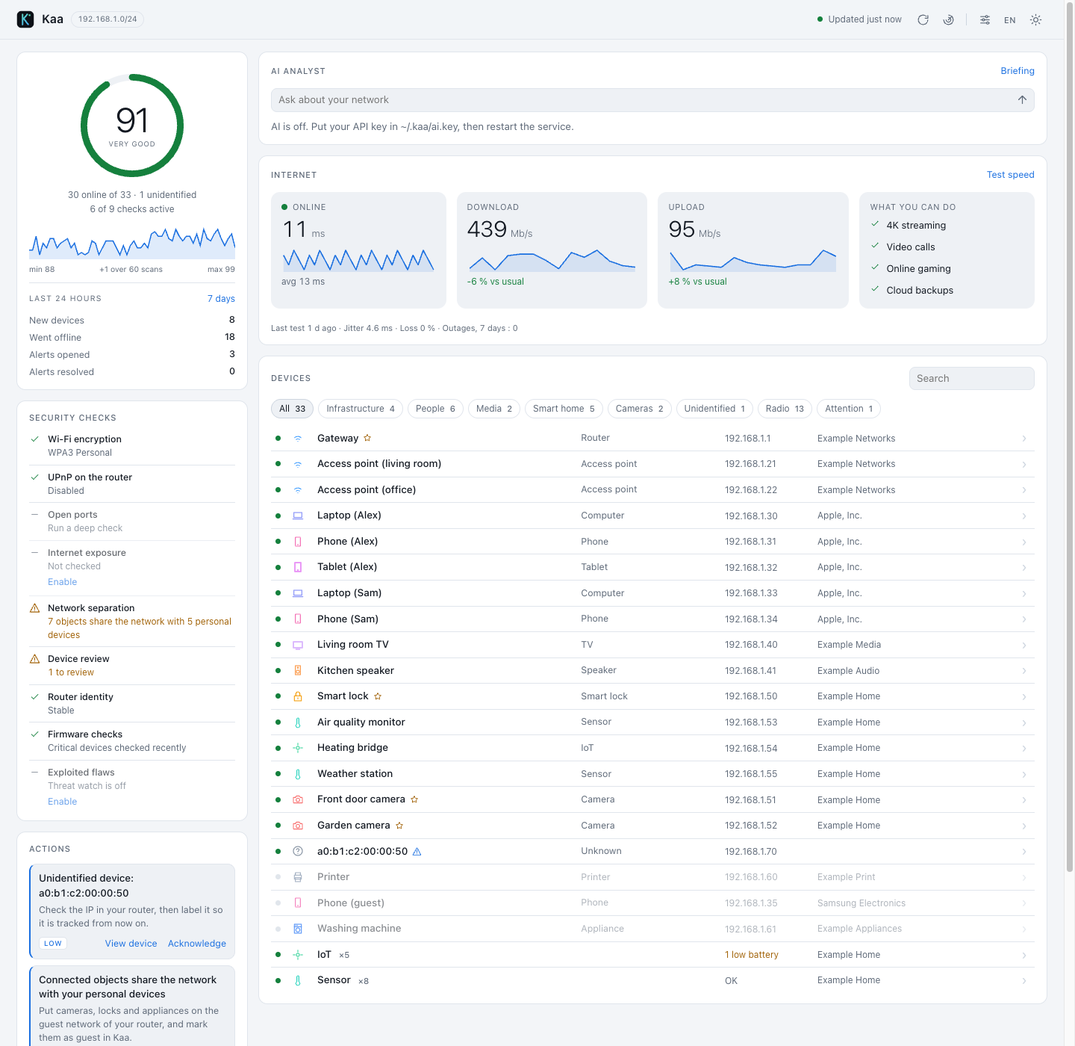
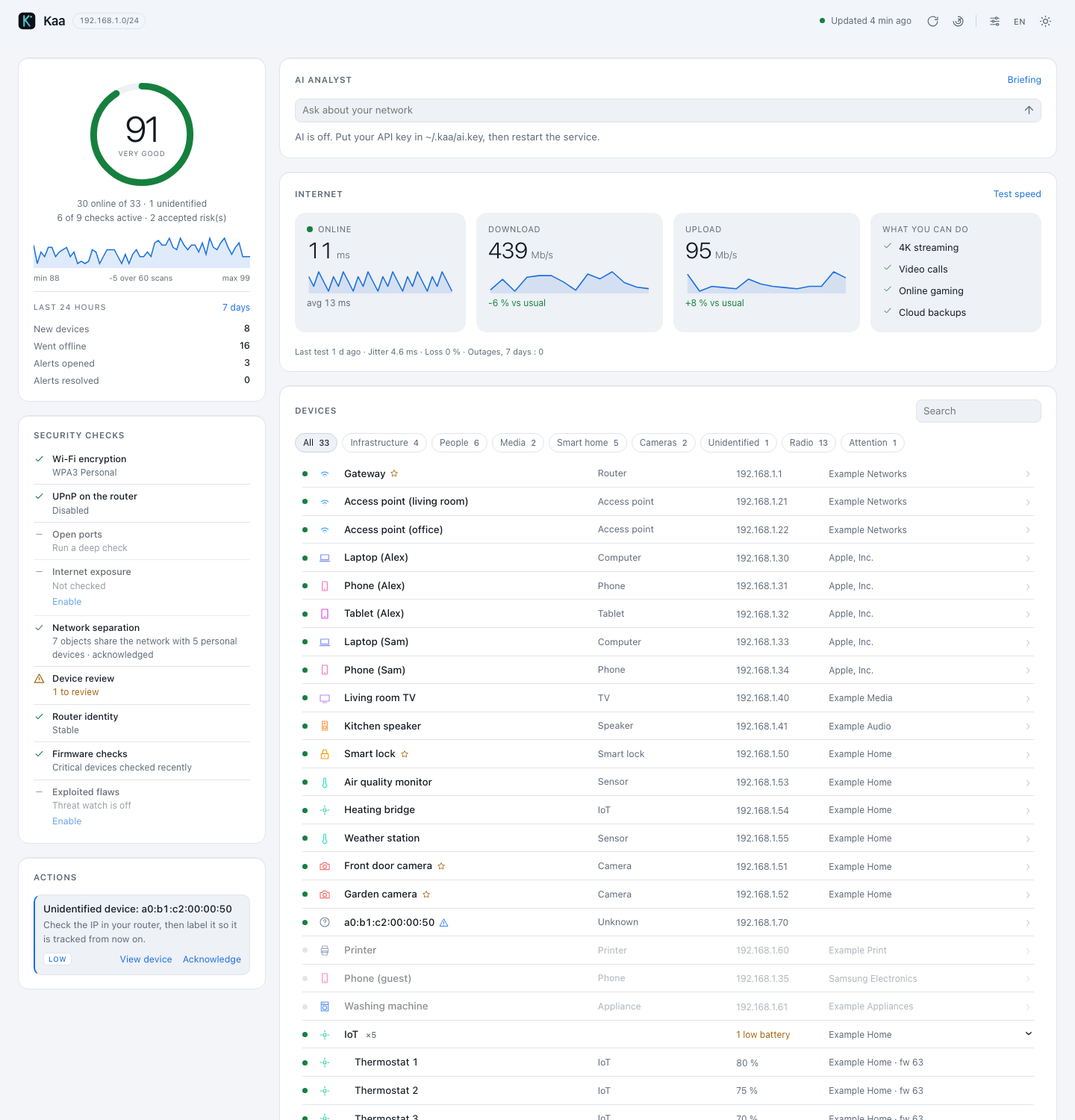
Redesign the interface: spring drawer, press feedback, materials, type
- Drawer: spring (damping ratio + response), draggable with pointer capture,
  momentum projection and velocity handoff, rubber-banding, interruptible,
  enters and leaves on the same side. No library, no external request.
- Press feedback on pointer down for buttons, filters, rows and alerts.
- Translucent drawer and top bar with a light edge; the page steps back and
  dims while the drawer is open; the bar divider appears on scroll.
- Typography: tighter tracking on large figures and titles.
- Cards and device rows: more space, softer radius, hairline separators.
- Radio device groups are expanded by default so device names stay visible.
- Accessibility: reduced motion (fade), reduced transparency, increased
  contrast; closed drawer is not focusable, background is inert when open.
- ?still freezes animations for stable screenshots.
- New screenshots (synthetic data), docs/DESIGN.md, README and CONTRIBUTING notes.

Claude-Session: https://claude.ai/code/session_01UT5uZosPDpBf2XQp8RB8y7

diff --git a/src/kaa/web/app.css b/src/kaa/web/app.css
@@ -25,24 +25,28 @@
   --text: #e6edf3; --muted: #7d8a9b; --accent: #3ee6b0; --accent-2: #4aa3ff; --ok: #34d399; --warn: #fbbf24;
   --high: #fb923c; --crit: #f87171; --on-accent: #03140d; --grid: rgba(120,160,200,.045); --glow: rgba(62,230,176,.10);
   --shadow: 0 0 0 1px rgba(255,255,255,.02) inset, 0 10px 30px rgba(0,0,0,.45); }
-:root { --radius: 12px; --mono: var(--sans);
+:root { --radius: 14px; --mono: var(--sans); --spring: cubic-bezier(.2,.8,.2,1);
+  --edge: color-mix(in srgb, var(--text) 9%, transparent);
   --sans: -apple-system, BlinkMacSystemFont, "SF Pro Text", "Segoe UI", system-ui, "Helvetica Neue", sans-serif; }
 * { box-sizing: border-box; }
-html, body { margin: 0; background: var(--bg); color: var(--text); font: 13.5px/1.45 var(--sans); -webkit-font-smoothing: antialiased; }
+html, body { margin: 0; background: var(--bg); color: var(--text); font: 13.5px/1.45 var(--sans); -webkit-font-smoothing: antialiased;
+  font-optical-sizing: auto; -webkit-tap-highlight-color: transparent; }
+button, a, input, select { touch-action: manipulation; }
 .mono { font-family: var(--mono); }
-h2 { margin: 0; font-size: 11px; letter-spacing: .08em; text-transform: uppercase; color: var(--muted); font-weight: 500;
+h2 { margin: 0; font-size: 11.5px; letter-spacing: .07em; text-transform: uppercase; color: var(--muted); font-weight: 600;
   display: flex; align-items: center; gap: 8px; }
 svg.ic { width: 16px; height: 16px; fill: none; stroke: currentColor; stroke-width: 1.7; stroke-linecap: round; stroke-linejoin: round; flex: none; }
 [data-tip] { position: relative; }
-[data-tip]:hover::after { content: attr(data-tip); position: absolute; z-index: 20; top: calc(100% + 8px); left: 50%; transform: translateX(-50%);
+[data-tip]:hover::after { animation: tipin .14s ease-out; content: attr(data-tip); position: absolute; z-index: 20; top: calc(100% + 8px); left: 50%; transform: translateX(-50%);
   white-space: nowrap; background: var(--panel-2); color: var(--text); border: 1px solid var(--line-2); border-radius: 8px;
   padding: 5px 9px; font: 11.5px var(--sans); box-shadow: var(--shadow); pointer-events: none; }
 .bar-right [data-tip]:last-of-type:hover::after, .bar-right [data-tip]:hover::after { right: 0; left: auto; transform: none; }
 
 .bar { position: sticky; top: 0; z-index: 6; display: flex; justify-content: space-between; align-items: center;
-  padding: 10px 22px; background: color-mix(in srgb, var(--bg) 80%, transparent); backdrop-filter: saturate(160%) blur(16px);
-  border-bottom: 1px solid var(--line); }
-.brand { display: flex; align-items: center; gap: 10px; } .brand .name { font-weight: 600; font-size: 16px; letter-spacing: .02em; }
+  padding: 12px 24px; background: color-mix(in srgb, var(--bg) 72%, transparent); backdrop-filter: saturate(180%) blur(20px);
+  border-bottom: 1px solid transparent; transition: border-color .2s; }
+.bar.scrolled { border-bottom-color: var(--line); }
+.brand { display: flex; align-items: center; gap: 10px; } .brand .name { font-weight: 600; font-size: 17px; letter-spacing: -.012em; }
 .chip { font-size: 10.5px; color: var(--muted); border: 1px solid var(--line); padding: 2px 8px; border-radius: 99px; }
 .bar-right { display: flex; align-items: center; gap: 10px; }
 .status { display: flex; align-items: center; gap: 8px; color: var(--muted); font-size: 12px; margin-right: 4px; }
@@ -51,19 +55,19 @@ svg.ic { width: 16px; height: 16px; fill: none; stroke: currentColor; stroke-wid
 @keyframes pulse { 0% { box-shadow: 0 0 0 0 color-mix(in srgb, var(--accent) 60%, transparent);} 100% { box-shadow: 0 0 0 9px transparent;} }
 
 
-.grid { position: relative; z-index: 1; display: grid; grid-template-columns: 310px 1fr; gap: 14px; padding: 16px 22px 40px; max-width: 1500px; margin: 0 auto; }
+.grid { position: relative; z-index: 1; display: grid; grid-template-columns: 332px 1fr; gap: 18px; padding: 20px 24px 48px; max-width: 1500px; margin: 0 auto; }
 @media (max-width: 980px) { .grid { grid-template-columns: 1fr; } }
-.col-left, .col-right { display: flex; flex-direction: column; gap: 14px; min-width: 0; }
-.card { background: var(--panel); border: 1px solid var(--line); border-radius: var(--radius); padding: 14px 16px; }
-.card-head { display: flex; justify-content: space-between; align-items: center; gap: 12px; margin-bottom: 12px; flex-wrap: wrap; }
+.col-left, .col-right { display: flex; flex-direction: column; gap: 18px; min-width: 0; }
+.card { background: var(--panel); border: 1px solid var(--line); border-radius: var(--radius); padding: 18px 20px; box-shadow: inset 0 1px 0 var(--edge); }
+.card-head { display: flex; justify-content: space-between; align-items: center; gap: 12px; margin-bottom: 14px; flex-wrap: wrap; }
 
 .score { text-align: center; }
 .ring-wrap { position: relative; width: 156px; height: 156px; margin: 6px auto; }
 .ring { width: 100%; height: 100%; } .ring-bg { fill: none; stroke: var(--panel-2); stroke-width: 8; }
 .ring-fg { fill: none; stroke: var(--accent); stroke-width: 8; stroke-linecap: round; stroke-dasharray: 364.4; stroke-dashoffset: 364.4;
-  transition: stroke-dashoffset 1s cubic-bezier(.2,.8,.2,1), stroke .4s; }
+  transition: stroke-dashoffset .9s var(--spring), stroke .4s; }
 .ring-text { position: absolute; inset: 0; display: grid; place-content: center; }
-.num { font: 300 46px/1 var(--sans); letter-spacing: -.03em; } .grade { color: var(--muted); font-size: 11px; margin-top: 4px; letter-spacing: .1em; }
+.num { font: 300 48px/1 var(--sans); letter-spacing: -.045em; } .grade { color: var(--muted); font-size: 11px; margin-top: 4px; letter-spacing: .1em; }
 .trend { margin-top: 14px; } .spark { width: 100%; height: 44px; }
 .spark path.l { fill: none; stroke: var(--accent-2); stroke-width: 1.5; vector-effect: non-scaling-stroke; }
 .spark path.a { fill: color-mix(in srgb, var(--accent-2) 14%, transparent); stroke: none; }
@@ -94,10 +98,15 @@ svg.ic { width: 16px; height: 16px; fill: none; stroke: currentColor; stroke-wid
 .search:focus, .select:focus { border-color: var(--accent-2); }
 .pill { display: inline-flex; align-items: center; gap: 6px; font-size: 12px; } .pill svg { width: 14px; height: 14px; }
 
-.scrim { position: fixed; inset: 0; background: rgba(0,0,0,.5); opacity: 0; pointer-events: none; transition: opacity .2s; z-index: 8; } .scrim.on { opacity: 1; pointer-events: auto; }
-.drawer { position: fixed; top: 0; right: 0; bottom: 0; width: min(440px, 100vw); background: var(--panel); border-left: 1px solid var(--line);
-  transform: translateX(102%); transition: transform .26s cubic-bezier(.2,.8,.2,1); z-index: 9; padding: 20px; overflow-y: auto; }
-.drawer.on { transform: none; } .drawer h3 { margin: 0 0 2px; font-size: 19px; } .drawer .sub { color: var(--muted); font: 12px var(--mono); }
+.scrim { position: fixed; inset: 0; background: rgba(0,0,0,.5); opacity: 0; pointer-events: none; z-index: 8; } .scrim.on { pointer-events: auto; }
+/* The drawer is moved by JS (spring, drag, momentum). It extends 40px past the right edge so a bounce never shows a gap. */
+.drawer { position: fixed; top: 0; right: -40px; bottom: 0; width: calc(min(440px, 100vw) + 40px); z-index: 9; padding: 22px 62px 22px 22px; overflow-y: auto;
+  background: color-mix(in srgb, var(--panel) 80%, transparent); backdrop-filter: saturate(180%) blur(28px); -webkit-backdrop-filter: saturate(180%) blur(28px);
+  border-left: 1px solid var(--line); box-shadow: inset 1px 0 0 var(--edge), -30px 0 70px -24px rgba(0,0,0,.45);
+  transform: translate3d(100%, 0, 0); visibility: hidden; touch-action: pan-y; overscroll-behavior: contain; }
+.drawer.vis { visibility: visible; } .drawer.dragging { user-select: none; cursor: grabbing; }
+.drawer::before { content: ""; position: fixed; top: 50%; left: 7px; width: 4px; height: 36px; margin-top: -18px; border-radius: 4px; background: var(--line-2); opacity: .7; pointer-events: none; }
+.drawer h3 { margin: 0 0 2px; font-size: 20px; line-height: 1.15; letter-spacing: -.022em; font-weight: 600; } .drawer .sub { color: var(--muted); font: 12px var(--mono); }
 .drawer .block { margin-top: 18px; } .drawer .block > h2 { margin-bottom: 8px; }
 .kv { display: grid; grid-template-columns: 100px 1fr; gap: 6px 10px; font-size: 13px; } .kv dt { color: var(--muted); } .kv dd { margin: 0; font: 12px var(--mono); word-break: break-all; }
 .evidence { background: var(--panel-2); border: 1px solid var(--line); border-radius: 10px; padding: 9px 11px; margin-bottom: 8px; font-size: 12.5px; }
@@ -141,8 +150,11 @@ svg.ic { width: 16px; height: 16px; fill: none; stroke: currentColor; stroke-wid
 .tag.on { color: var(--text); background: var(--panel-2); border-color: var(--line-2); }
 .dlist { display: flex; flex-direction: column; }
 .dev { display: grid; grid-template-columns: 10px 22px minmax(0, 1.7fr) minmax(0, .9fr) 112px minmax(0, 1.3fr); gap: 12px; align-items: center; width: 100%;
-  background: transparent; border: 0; border-bottom: 1px solid var(--line); padding: 7px 6px; color: inherit; font: inherit; text-align: left; cursor: pointer; }
-.dev:last-child { border-bottom: 0; } .dev:hover { background: var(--panel-2); } .dev.static { cursor: default; } .dev.static:hover { background: transparent; }
+  background-color: transparent; border: 0; border-radius: 10px; padding: 9px 10px; color: inherit; font: inherit; text-align: left; cursor: pointer;
+  background-image: linear-gradient(var(--line), var(--line)); background-size: calc(100% - 20px) 1px; background-position: center bottom; background-repeat: no-repeat;
+  transition: background-color .12s; }
+.dev:last-child { background-image: none; } .dev:hover { background-color: var(--panel-2); } .dev:active { background-color: var(--line); transition-duration: 0s; }
+.dev.static { cursor: default; } .dev.static:hover, .dev.static:active { background-color: transparent; }
 .dev.off > :not(.dg):not(.live) { opacity: .5; } .dev.off .dg { opacity: .85; } .dev.off .live { opacity: .6; } .dev.newdev .dn { color: var(--warn); }
 .dg { display: inline-flex; } .dn { font-weight: 500; display: flex; align-items: center; gap: 6px; min-width: 0; overflow: hidden; text-overflow: ellipsis; white-space: nowrap; }
 .dt { color: var(--muted); font-size: 12.5px; } .da { font: 12px var(--mono); color: var(--muted); }
@@ -155,7 +167,7 @@ svg.ic { width: 16px; height: 16px; fill: none; stroke: currentColor; stroke-wid
 @media (max-width: 900px) { .dev { grid-template-columns: 10px 22px minmax(0, 1fr) 100px 12px; } }
 
 .ib { appearance: none; border: 0; background: transparent; color: var(--muted); width: 32px; height: 32px; display: inline-grid; place-items: center;
-  border-radius: 8px; cursor: pointer; font: 500 11px var(--mono); letter-spacing: .04em; transition: color .12s, background .12s; }
+  border-radius: 8px; cursor: pointer; font: 500 11px var(--mono); letter-spacing: .04em; transition: color .12s, background .12s, transform .35s var(--spring); }
 .ib:hover { color: var(--text); background: var(--panel-2); } .ib:disabled { opacity: .4; cursor: default; }
 .ib svg { width: 17px; height: 17px; } .ib.busy { color: var(--accent); } .ib.busy svg { animation: spin 1s linear infinite; }
 @keyframes spin { to { transform: rotate(360deg); } }
@@ -182,7 +194,7 @@ svg.ic { width: 16px; height: 16px; fill: none; stroke: currentColor; stroke-wid
 .hy-d { font-size: 12px; color: var(--muted); } .hy-row.warn .hy-d { color: var(--warn); } .hy-row.na { opacity: .65; }
 .hy-row.ack .hy-d { color: var(--muted); }
 
-body { font-variant-numeric: tabular-nums; letter-spacing: -.003em; }
+body { font-variant-numeric: tabular-nums; }
 .dn { font-weight: 500; }
 
 .foot { text-align: center; color: var(--muted); font-size: 11.5px; padding: 4px 22px 28px; }
@@ -190,9 +202,9 @@ body { font-variant-numeric: tabular-nums; letter-spacing: -.003em; }
 .hy-b .threats { margin-top: 8px; }
 .ni { display: grid; grid-template-columns: 1.1fr 1.2fr 1.2fr 1.1fr; gap: 14px; }
 @media (max-width: 1100px) { .ni { grid-template-columns: 1fr 1fr; } }
-.ni-col { background: var(--panel-2); border-radius: 12px; padding: 12px 14px; display: flex; flex-direction: column; gap: 4px; min-width: 0; }
+.ni-col { background: var(--panel-2); border-radius: 14px; padding: 14px 16px; display: flex; flex-direction: column; gap: 4px; min-width: 0; }
 .ni-k { color: var(--muted); font-size: 11px; letter-spacing: .06em; text-transform: uppercase; display: flex; align-items: center; gap: 7px; }
-.ni-v { font-size: 30px; font-weight: 300; letter-spacing: -.02em; line-height: 1.1; } .ni-v small { font-size: 13px; color: var(--muted); margin-left: 5px; letter-spacing: 0; }
+.ni-v { font-size: 30px; font-weight: 300; letter-spacing: -.03em; line-height: 1.05; } .ni-v small { font-size: 13px; color: var(--muted); margin-left: 5px; letter-spacing: 0; }
 .ni-s { color: var(--muted); font-size: 12px; } .ni-f { margin-top: 10px; }
 .ni-dot { width: 8px; height: 8px; border-radius: 50%; background: var(--muted); display: inline-block; }
 .ni-dot.on { background: var(--ok); box-shadow: 0 0 0 0 var(--ok); animation: pulse 2s infinite; } .ni-dot.off { background: var(--crit); }
@@ -212,4 +224,31 @@ body { font-variant-numeric: tabular-nums; letter-spacing: -.003em; }
 .grade { max-width: 92px; text-align: center; font-size: 9.5px !important; letter-spacing: .07em !important; line-height: 1.25; margin-top: 4px; }
 
 :focus-visible { outline: 2px solid var(--accent); outline-offset: 2px; border-radius: 6px; }
-@media (prefers-reduced-motion: reduce) { *, *::before, *::after { transition: none !important; animation: none !important; } }
+@keyframes tipin { from { opacity: 0; } }
+
+/* Press feedback: starts on pointer down, never waits for release. */
+.ib, .tag, .link, .seg button, .action, .card .search { transition-property: transform, color, background-color, border-color, opacity; transition-duration: .35s, .12s, .12s, .12s, .12s; transition-timing-function: var(--spring), ease, ease, ease, ease; }
+.ib:active, .tag:active, .seg button:active { transform: scale(.94); transition-duration: .1s; }
+.link:active { opacity: .6; transition-duration: 0s; }
+.action:active { transform: scale(.985); transition-duration: .1s; }
+.action[style*="cursor:default"]:active { transform: none; }
+
+/* Drawer in the background: the page steps back while a modal drawer is open. */
+.dr-active .bar, .dr-active .grid, .dr-active .foot { transform: scale(calc(1 - .014 * var(--p, 0))); transform-origin: 35% 50%; }
+
+@supports (transition-timing-function: linear(0, 1)) { :root { --spring: linear(0, 0.097, 0.282, 0.466, 0.619, 0.736, 0.821, 0.881, 0.921, 0.949, 0.967, 0.979, 0.986, 0.991, 0.995, 0.997, 0.998, 0.999, 0.999, 0.999, 1, 1, 1, 1, 1); } }
+
+@media (prefers-reduced-motion: reduce) {
+  *, *::before, *::after { animation: none !important; transition-property: opacity, color, background-color, border-color !important; transition-duration: .2s !important; transition-timing-function: ease !important; }
+  .dr-active .bar, .dr-active .grid, .dr-active .foot { transform: none; }
+  .drawer { transform: none; opacity: 0; transition: opacity .2s, visibility 0s .2s !important; } .drawer::before { display: none; }
+  .drawer.on { opacity: 1; visibility: visible; transition: opacity .2s !important; }
+  .scrim { transition: opacity .2s !important; }
+}
+@media (prefers-reduced-transparency: reduce) {
+  .bar, .drawer { background: var(--panel); backdrop-filter: none; -webkit-backdrop-filter: none; }
+}
+@media (prefers-contrast: more) {
+  :root, [data-theme] { --line: var(--line-2); --muted: color-mix(in srgb, var(--text) 78%, var(--bg)); }
+  .card, .drawer, .bar { border-color: var(--line-2); } .bar, .drawer { background: var(--panel); backdrop-filter: none; -webkit-backdrop-filter: none; }
+}

diff --git a/src/kaa/web/app.js b/src/kaa/web/app.js
@@ -422,7 +422,7 @@ function renderMap() {
     for (const [k, items] of [...byKind].sort((x, y) => x[0].localeCompare(y[0]))) {
       items.sort((x, y) => (x.name || "").localeCompare(y.name || ""));
       if (items.length < 3) { nodes.push(...items.map((r) => radioRow(r))); continue; }
-      const open = q ? true : grpOpen.has(k) ? grpOpen.get(k) : chip === "radio";
+      const open = q ? true : grpOpen.has(k) ? grpOpen.get(k) : true;  // names visible by default; the group row still folds them
       nodes.push(groupRow(k, items, open));
       if (open) nodes.push(...items.map((r) => radioRow(r, true)));
     }
@@ -430,13 +430,100 @@ function renderMap() {
   box.replaceChildren(...(nodes.length ? nodes : [el("div", { class: "empty" }, t("no_match_dev"))]));
 }
 
+/* ---------- drawer physics: spring, drag, momentum (no library, no external request) ---------- */
+const reduceMotion = () => matchMedia("(prefers-reduced-motion: reduce)").matches;
+/* Spring defined like Apple's: damping ratio + response (seconds). Integrates from the live value and velocity, so it can be interrupted at any frame. */
+function spring(from, to, v0, { response = 0.32, damping = 1 }, onFrame, onDone) {
+  const w = (2 * Math.PI) / response, k = w * w, c = 2 * damping * w;
+  let x = from, v = v0, last = performance.now(), id = 0;
+  const step = (now) => {
+    let dt = Math.min(0.064, (now - last) / 1000); last = now;
+    while (dt > 0) { const h = Math.min(dt, 1 / 240); v += (-k * (x - to) - c * v) * h; x += v * h; dt -= h; }
+    if (Math.abs(x - to) < 0.3 && Math.abs(v) < 2) { onFrame(to, 0); if (onDone) onDone(); return; }
+    onFrame(x, v); id = requestAnimationFrame(step);
+  };
+  id = requestAnimationFrame(step);
+  return { cancel: () => cancelAnimationFrame(id) };
+}
+const projectMomentum = (v, rate = 0.998) => ((v / 1000) * rate) / (1 - rate);  // where a flick would come to rest (px)
+const rubberband = (over, dim, k = 0.55) => (over * dim * k) / (dim + k * Math.abs(over));  // resistance past an edge
+const DR = { x: 0, v: 0, open: false, anim: null };
+const dw = () => $("drawer").offsetWidth || 1;
+function drPaint(x) {
+  DR.x = x;
+  const p = Math.min(1, Math.max(0, 1 - x / dw()));
+  $("drawer").style.transform = `translate3d(${x}px,0,0)`;
+  $("scrim").style.opacity = p.toFixed(3);
+  document.documentElement.style.setProperty("--p", p.toFixed(3));
+}
+function drDone(open) {
+  DR.anim = null; DR.v = 0;
+  if (open) return;
+  const dr = $("drawer");
+  dr.classList.remove("vis"); dr.style.transform = ""; dr.inert = true;
+  document.documentElement.classList.remove("dr-active"); document.documentElement.style.removeProperty("--p");
+  $("scrim").style.opacity = "";
+}
+function drGo(open, v0 = 0) {
+  if (DR.anim) DR.anim.cancel();
+  if (document.documentElement.classList.contains("still")) { drPaint(open ? 0 : dw()); drDone(open); return; }  // ?still: no animation (screenshots)
+  if (reduceMotion()) { $("scrim").style.opacity = open ? "1" : "0"; if (!open) setTimeout(() => { if (!DR.open) drDone(false); }, 220); return; }
+  /* bounce only when a flick carried momentum; otherwise critically damped */
+  DR.anim = spring(DR.x, open ? 0 : dw(), v0, { response: 0.32, damping: Math.abs(v0) > 300 ? 0.8 : 1 }, (x, v) => { DR.v = v; drPaint(x); }, () => drDone(open));
+}
+function setBackgroundInert(on) { for (const s of [".bar", ".grid", ".foot"]) document.querySelector(s).inert = on; }
+function initDrawer() {
+  const dr = $("drawer");
+  let st = null, hist = [];
+  dr.addEventListener("pointerdown", (e) => {
+    if ((!DR.open && !DR.anim) || reduceMotion() || e.button > 0 || e.target.closest("input, select, textarea, button, a, label")) return;
+    const frozen = !!DR.anim;  // grabbing a moving drawer stops it where it is
+    if (frozen) { DR.anim.cancel(); DR.anim = null; }
+    st = { id: e.pointerId, x0: e.clientX, y0: e.clientY, base: DR.x, live: false, frozen };
+    hist = [[e.clientX, e.timeStamp]];
+  });
+  dr.addEventListener("pointermove", (e) => {
+    if (!st || e.pointerId !== st.id) return;
+    const dx = e.clientX - st.x0, dy = e.clientY - st.y0;
+    if (!st.live) {
+      if (Math.abs(dx) < 10 && Math.abs(dy) < 10) return;  // hysteresis
+      if (Math.abs(dy) > Math.abs(dx)) { if (st.frozen) drGo(DR.open, 0); st = null; return; }  // vertical: let it scroll
+      st.live = true; st.x0 = e.clientX; dr.setPointerCapture(e.pointerId); dr.classList.add("dragging");
+    }
+    hist.push([e.clientX, e.timeStamp]);
+    while (hist.length > 2 && e.timeStamp - hist[0][1] > 100) hist.shift();
+    const raw = st.base + (e.clientX - st.x0);  // 1:1 with the pointer, offset kept from where it was grabbed
+    drPaint(raw < 0 ? -rubberband(-raw, dw()) : raw);
+  });
+  const end = (e) => {
+    if (!st || e.pointerId !== st.id) return;
+    const s = st; st = null;
+    if (!s.live) { if (s.frozen) drGo(DR.open, DR.v); return; }
+    dr.classList.remove("dragging");
+    const [x1, t1] = hist[hist.length - 1], [x0, t0] = hist[0];
+    const v = t1 > t0 ? ((x1 - x0) / (t1 - t0)) * 1000 : 0;  // px/s at release
+    if (DR.x + projectMomentum(v) > dw() / 2) closeDrawer(v); else { DR.open = true; drGo(true, v); }
+  };
+  dr.addEventListener("pointerup", end); dr.addEventListener("pointercancel", end);
+  const bar = document.querySelector(".bar");
+  const edge = () => bar.classList.toggle("scrolled", window.scrollY > 4);
+  window.addEventListener("scroll", edge, { passive: true }); edge();
+  dr.inert = true;
+}
+
 /* ---------- drawers ---------- */
 function showDrawer(nodes) {
-  const dr = $("drawer");
-  dr.replaceChildren(el("button", { class: "close", onclick: closeDrawer, "aria-label": t("close") }, icon("x")), ...nodes.filter(Boolean));
-  dr.classList.add("on"); $("scrim").classList.add("on"); dr.setAttribute("aria-hidden", "false");
+  const dr = $("drawer"), wasOpen = DR.open;
+  dr.replaceChildren(el("button", { class: "close", onclick: () => closeDrawer(), "aria-label": t("close") }, icon("x")), ...nodes.filter(Boolean));
+  dr.setAttribute("aria-hidden", "false"); dr.inert = false;
   if (!opener) opener = document.activeElement;
-  dr.querySelector(".close").focus();
+  if (!wasOpen) {  // content refreshes while open must not replay the entrance
+    DR.open = true; dr.classList.add("on", "vis"); $("scrim").classList.add("on");
+    document.documentElement.classList.add("dr-active"); setBackgroundInert(true);
+    if (!dr.style.transform && !reduceMotion()) drPaint(dw());  // start closed, then open from the current value
+    drGo(true, 0);
+  }
+  if (!document.documentElement.classList.contains("still")) dr.querySelector(".close").focus({ preventScroll: true });  // ?still = screenshots: no focus ring
 }
 let opener = null;
 async function openDrawer(id) {
@@ -515,8 +602,13 @@ function evidenceCard(e) {
     el("div", {}, el("code", {}, JSON.stringify(e.matched))), e.reason ? el("div", {}, e.reason) : null);
 }
 async function save(id, patch) { await api(`/api/devices/${id}`, { method: "PATCH", body: JSON.stringify(patch) }); await refresh(); await openDrawer(id); }
-function closeDrawer() {
-  $("drawer").classList.remove("on"); $("scrim").classList.remove("on"); $("drawer").setAttribute("aria-hidden", "true"); openId = null;
+function closeDrawer(v0) {
+  if (!DR.open) return;
+  DR.open = false; openId = null;
+  const dr = $("drawer");
+  dr.classList.remove("on"); $("scrim").classList.remove("on"); dr.setAttribute("aria-hidden", "true");
+  setBackgroundInert(false);
+  drGo(false, typeof v0 === "number" ? v0 : 0);  // leaves the way it came: to the right
   if (opener && document.contains(opener)) opener.focus();
   opener = null;
 }
@@ -644,7 +736,8 @@ async function boot() {
   $("speed").addEventListener("click", runSpeed);
   $("ask").addEventListener("submit", submitAsk);
   $("q").addEventListener("input", renderMap);
-  $("scrim").addEventListener("click", closeDrawer);
+  initDrawer();
+  $("scrim").addEventListener("click", () => closeDrawer());
   document.addEventListener("keydown", (e) => { if (e.key === "Escape") closeDrawer(); });
   await refresh();
   const open = /^d(\d+)$/.exec(location.hash.slice(1)); if (open) openDrawer(Number(open[1]));

diff --git a/docs/DESIGN.md b/docs/DESIGN.md
@@ -1,0 +1,30 @@
+# Interface design
+
+Kaa's interface is plain HTML, CSS and JavaScript (`src/kaa/web`). No framework, no build step, no external request. The motion and material choices follow the fluid interface principles from Apple's WWDC talks (for example *Designing Fluid Interfaces*). Kaa is not affiliated with Apple.
+
+## Principles
+
+| Principle | How Kaa applies it |
+|---|---|
+| **Respond at once** | Buttons, filters, rows and alerts react on pointer down, not on release. |
+| **Direct manipulation** | The drawer tracks the pointer one to one and keeps the offset from where you grabbed it. |
+| **Interruptible** | Every drawer movement starts from its live position and velocity, so you can grab or reverse it at any frame, with no jump. Input is never locked during a transition. |
+| **Springs, not timers** | The drawer uses a spring defined by a damping ratio and a response time. It is critically damped (no bounce) by default, and bounces slightly only when a flick carried momentum. |
+| **Momentum** | On release, the pointer velocity is projected forward to decide whether the drawer closes or stays open, and is handed to the spring as its initial velocity. |
+| **Symmetry** | The drawer enters from the right and leaves to the right. |
+| **Soft boundaries** | Dragging past the open position meets progressive resistance instead of a hard stop. |
+| **Materials** | The top bar and the drawer are translucent layers with a light top or side edge. The page steps back and dims while the drawer is open. The bar only draws its divider once content scrolls under it. |
+| **Type** | Tracking is tightened on large figures and titles, and left neutral on body text. |
+
+## Accessibility
+
+- `prefers-reduced-motion`: the drawer fades instead of sliding, nothing springs, the page does not step back.
+- `prefers-reduced-transparency`: translucent surfaces become solid.
+- `prefers-contrast: more`: borders strengthen, translucent surfaces become solid.
+- A closed drawer is removed from keyboard focus. While it is open, the page behind is inert and focus returns to the element that opened it.
+
+## Where it lives
+
+- Spring, drag and momentum: the "drawer physics" block in `src/kaa/web/app.js`.
+- Tokens, materials, press feedback and media queries: `src/kaa/web/app.css`.
+- Screenshots: `python scripts/demo.py`, then open `http://127.0.0.1:8480/?theme=dark&still` (add `#d1` for the device drawer). `still` freezes animations so the capture is stable.

diff --git a/README.md b/README.md
@@ -28,6 +28,8 @@ Kaa maps every device on your home network, recognises what each one is, checks 
 
 Light and dark themes follow your system. The interface is available in English and French.
 
+The interface is plain HTML, CSS and JavaScript: no framework and no external request. Its motion follows the fluid interface principles Apple presented at WWDC (not affiliated with Apple): the drawer follows your pointer one to one, can be grabbed while it moves, and a flick decides where it lands. It respects reduced motion, reduced transparency and increased contrast. See [docs/DESIGN.md](docs/DESIGN.md).
+
 ## How it works
 
 <p align="center"><img src="docs/img/how-it-works.svg" width="900" alt="Discovery, identification, evaluation and scoring pipeline"></p>

diff --git a/CONTRIBUTING.md b/CONTRIBUTING.md
@@ -10,6 +10,7 @@ python3 -m venv .venv && . .venv/bin/activate
 pip install -e ".[dev]"
 pytest -q
 python scripts/demo.py   # the interface with synthetic data, no scanning
+# add ?still to the URL (and ?theme=light or dark) to freeze animations, for screenshots
 ```
 
 ## Easiest ways to help
